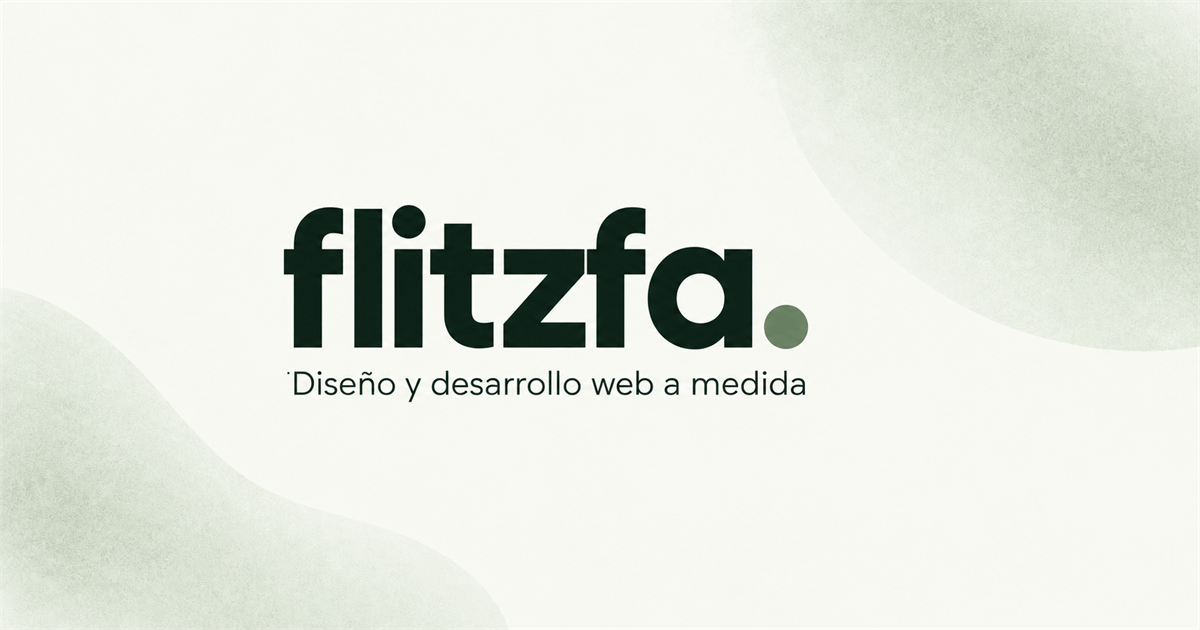
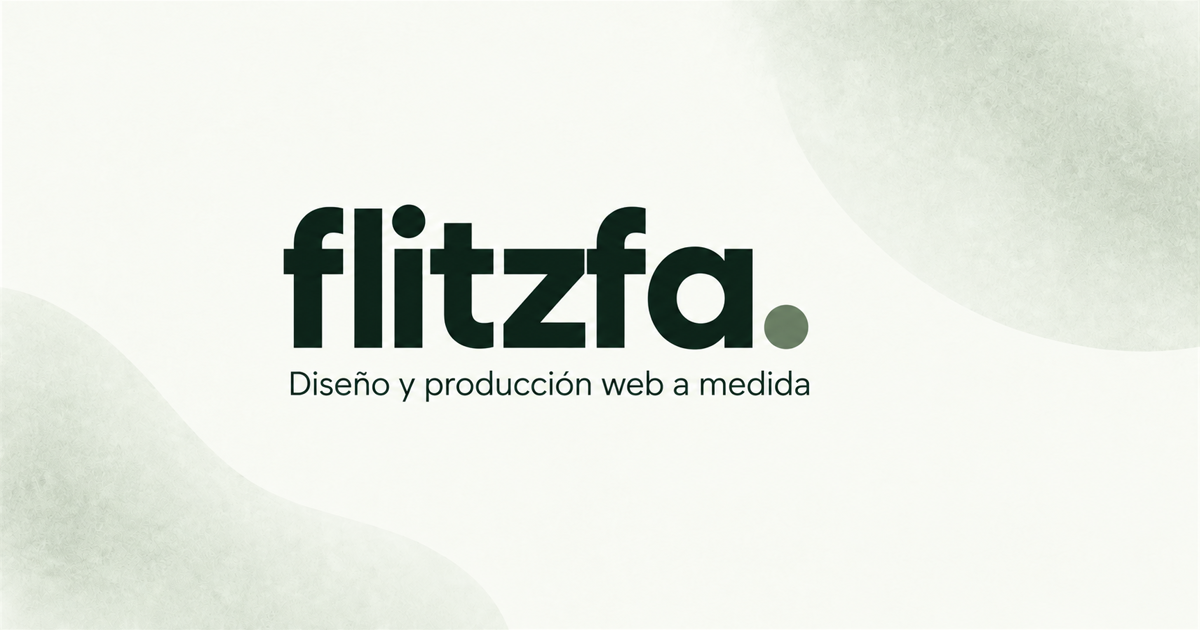
feat: clarify portfolio positioning and project roles

Changed region(s): [[0.2158, 0.573, 0.6783, 0.6333], [0.5858, 0.3921, 0.6167, 0.4222], [0.4317, 0.3921, 0.4625, 0.4222]]

diff --git a/src/data/projects.ts b/src/data/projects.ts
@@ -5,7 +5,9 @@ export interface ProjectItem {
   rubro: string;
   tagline: string;
   location: string;
-  summary: string;
+  objective: string;
+  participation: string;
+  technologies: string[];
   liveUrl?: string;
   palette: {
     accent: string;
@@ -24,7 +26,9 @@ export const projectsData: ProjectItem[] = [
     rubro: 'Parador de playa · Gastronomía · Eventos',
     tagline: 'El río tiene su lugar.',
     location: 'Rincón Santa María · Ituzaingó, Corrientes',
-    summary: 'Una experiencia web diseñada para transmitir el pulso del río Paraná: desde el descanso bajo el sol hasta los atardeceres con música en vivo y las noches de cantina.',
+    objective: 'Trasladar al sitio la experiencia del parador y reunir propuesta, agenda, ubicación y consultas en un recorrido claro.',
+    participation: 'Definí el recorrido día–atardecer–noche, adapté la identidad del parador al entorno web y dirigí las revisiones de contenido, responsive, accesibilidad e imágenes.',
+    technologies: ['HTML', 'CSS', 'JavaScript'],
     liveUrl: 'https://parador-mariabeach.vercel.app/',
     palette: {
       accent: '#2A7B9B',
@@ -41,7 +45,9 @@ export const projectsData: ProjectItem[] = [
     rubro: 'Música instrumental · Shows en vivo · Jazz & Fusión',
     tagline: 'Música en movimiento.',
     location: 'Buenos Aires',
-    summary: 'Plataforma para un trío instrumental independiente que fusiona folclore argentino, música latinoamericana, rock y jazz. Reúne música propia, agenda de conciertos y contacto.',
+    objective: 'Reunir identidad, historia, integrantes, música, fechas y contratación en un espacio editorial propio.',
+    participation: 'Definí la narrativa visual de ruta, organicé el contenido y dirigí las iteraciones de fotografía, navegación y responsive.',
+    technologies: ['Astro', 'TypeScript', 'CSS'],
     liveUrl: 'https://web-620.vercel.app/',
     palette: {
       accent: '#E6A15C',
@@ -58,7 +64,9 @@ export const projectsData: ProjectItem[] = [
     rubro: 'Gimnasio · CrossFit & Funcional · Rendimiento',
     tagline: 'Forjando disciplina. Construyendo rendimiento.',
     location: 'San Justo · Buenos Aires',
-    summary: 'Presencia digital directa y de alta energía. Tipografía contundente, fotografía real de instalaciones y un canal ágil para canalizar consultas y nuevos socios por WhatsApp.',
+    objective: 'Presentar disciplinas y horarios con claridad y convertir visitas en consultas directas por WhatsApp.',
+    participation: 'Adapté la identidad de KITA al entorno web, organicé la información comercial y dirigí las revisiones de experiencia, responsive y accesibilidad.',
+    technologies: ['HTML', 'CSS', 'JavaScript'],
     liveUrl: 'https://flitzfa.github.io/kita-fit/',
     palette: {
       accent: '#C7FF24',
@@ -75,7 +83,9 @@ export const projectsData: ProjectItem[] = [
     rubro: 'Clínica veterinaria · 18 Especialidades médicas',
     tagline: 'Atención clínica con dedicación para cada paciente.',
     location: 'Isidro Casanova · Buenos Aires',
-    summary: 'Diseño enfocado en transmitir calma, profesionalismo y rigor médico. Organización clara de 18 especialidades médicas, turnos y atención de animales no tradicionales.',
+    objective: 'Comunicar confianza, ordenar 18 prestaciones y facilitar turnos, horarios y ubicación.',
+    participation: 'Definí la jerarquía del sitio y dirigí las iteraciones de información médica, consultas por WhatsApp, responsive y SEO local.',
+    technologies: ['Astro', 'Tailwind CSS', 'TypeScript'],
     liveUrl: 'https://flitzfa.github.io/portex-vet/',
     palette: {
       accent: '#0E7C7B',

diff --git a/src/data/siteConfig.ts b/src/data/siteConfig.ts
@@ -37,17 +37,17 @@ export interface SiteConfig {
 export const siteConfig: SiteConfig = {
   brand: {
     name: 'flitzfa',
-    tagline: 'Web Design & Development',
+    tagline: 'Diseño & Producción Web',
     dotColor: '#6F8F72',
   },
   author: {
     name: 'Fabricio',
     nickname: 'flitzfa',
-    bio: 'Desarrollo sitios web a medida y me interesa especialmente el punto donde diseño, tecnología e identidad se encuentran.',
+    bio: 'Diseño y dirijo la producción de sitios web a medida, desde la definición de la idea hasta su publicación.',
     fullBio: [
-      'Soy Fabricio. Desarrollo sitios web y me interesa especialmente el punto donde diseño, tecnología e identidad se encuentran.',
-      'Trabajo cada proyecto buscando entender qué necesita realmente antes de decidir cómo debería verse o funcionar.',
-      'No utilizo la misma plantilla para todos: cada negocio, artista o profesional tiene una personalidad propia, y su web debe reflejarla con precisión técnica y sensibilidad visual.'
+      'Soy Fabricio. Diseño y dirijo la producción de sitios web a medida.',
+      'Trabajo directamente con cada proyecto para definir qué necesita, cómo debería verse y qué experiencia debe ofrecer.',
+      'Coordino la implementación con agentes de IA y conduzco las revisiones, pruebas e iteraciones hasta llegar a una versión lista para publicarse.'
     ],
     availableForWork: true,
     availabilityText: 'Disponible para nuevos proyectos',
@@ -61,10 +61,10 @@ export const siteConfig: SiteConfig = {
     location: 'Buenos Aires, Argentina',
   },
   seo: {
-    title: 'flitzfa. — Diseño y Desarrollo Web a Medida',
-    description: 'Diseño y desarrollo sitios web a medida para negocios, profesionales y proyectos que necesitan una presencia digital propia. Cada proyecto es distinto, su web también.',
+    title: 'flitzfa. — Diseño y producción web a medida',
+    description: 'Diseño y dirección de sitios web a medida para negocios, profesionales y proyectos que necesitan una presencia digital propia.',
     image: '/assets/brand/og-share.png',
-    imageAlt: 'flitzfa. — Diseño y desarrollo web a medida',
+    imageAlt: 'flitzfa. — Diseño y producción web a medida',
   },
   nav: [
     { label: 'Proyectos', href: '#proyectos' },

diff --git a/src/data/services.ts b/src/data/services.ts
@@ -42,27 +42,33 @@ export const methodologySteps: MethodologyStep[] = [
   {
     number: '02',
     title: 'Diseñar',
-    description: 'Construir la identidad digital, la paleta cromática, la tipografía y una experiencia visual pensada para tu público.'
+    description: 'Definir la arquitectura, la jerarquía, el recorrido y una dirección visual coherente con la identidad del proyecto.'
   },
   {
     number: '03',
-    title: 'Desarrollar',
-    description: 'Convertir el concepto en una web rápida, accesible, perfectamente responsive y técnicamente sólida.'
+    title: 'Producir',
+    description: 'Coordinar la implementación con agentes de IA y convertir las decisiones de diseño en un sitio funcional y responsive.'
   },
   {
     number: '04',
-    title: 'Refinar',
-    description: 'Inspeccionar visualmente en el navegador, probar en pantallas reales y pulir cada detalle hasta conseguir un resultado memorable.'
+    title: 'Probar y refinar',
+    description: 'Revisar el resultado real en el navegador y dirigir las iteraciones de contenido, diseño, accesibilidad y funcionamiento.'
   }
 ];
 
-export const toolsAndTech: string[] = [
+export const technologiesUsed: string[] = [
   'Astro',
   'Tailwind CSS',
   'TypeScript',
-  'HTML Semántico',
-  'CSS Moderno & Responsive',
-  'Figma',
-  'Web Performance',
-  'Accesibilidad'
+  'HTML',
+  'CSS',
+  'JavaScript'
+];
+
+export const appliedCriteria: string[] = [
+  'Responsive',
+  'Accesibilidad',
+  'Performance',
+  'SEO técnico',
+  'Revisión visual y funcional'
 ];
